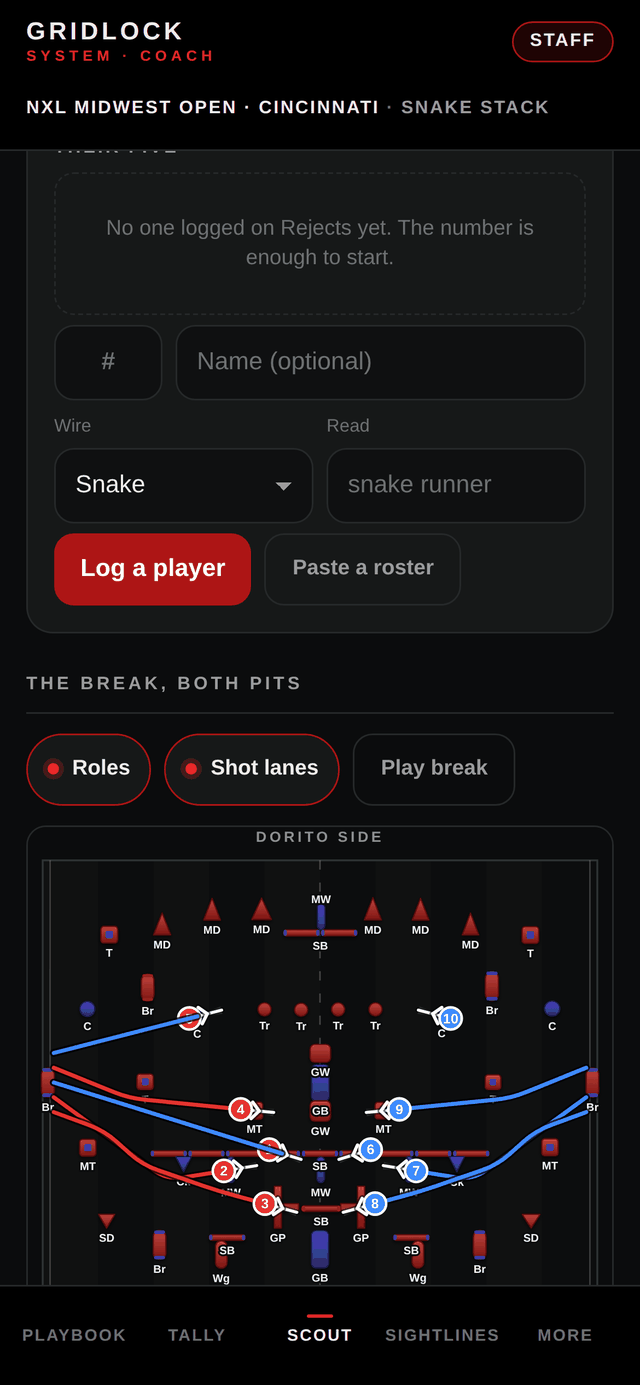
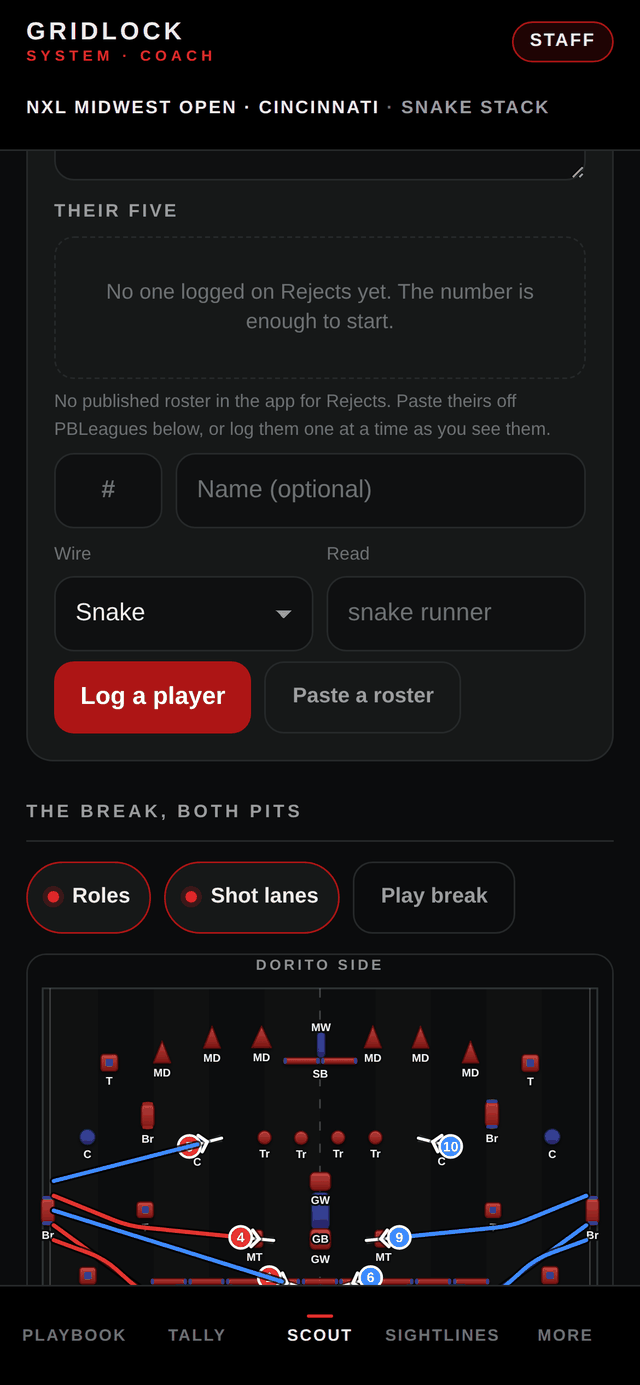
Seed the pro rosters that could actually be read, and no others
The ask was every pro roster. One is in: San Diego Dynasty, five men,
three with numbers, read off the NXL team page and the team's 2026 roster
write-up. The other ten are not, because this machine cannot reach the
pages that carry them — pbleagues, nxlpaintball and every other paintball
site are refused by the network — and a hundred players' names and
numbers written down from memory would be worse than an empty list. A
team with no published roster says so on its card and points at the paste
box instead.

A published name is stored flagged as published and the card counts them
separately, so a name nobody here has watched is never presented as
something a coach saw. Adding them is one tap, never automatic, never
twice, and every one is editable and scoreable afterwards like any other.

Also: a pro team carries no points, and the pit card was rendering that
as "US undefined pts". A team nobody has scored now reads as a dash.

325 function checks, 61 device checks across 14 devices, 58/58 bunkers at
0.0000 ft, load test within budget.

Claude-Session: https://claude.ai/code/session_019NY29crEcm2oYkRmb2ARNX

diff --git a/web/index.html b/web/index.html
@@ -2057,6 +2057,33 @@ window.setScoutThreat = (side, i, n) => {
   editProfile(side, {players: pitOf(side).players.map((p, k) => k === i ? {...p, threat:n} : p)});
   render();
 };
+// ---- rosters the league published ----
+// Not scouting. These are names off the league's own pages, and they go in
+// flagged as published so a name nobody here has watched is never mistaken for
+// something a coach saw. A team is in this list only if its roster was actually
+// read somewhere; the rest stay empty rather than being filled in from memory.
+const PRO_ROSTERS = {
+  "San Diego Dynasty": {
+    read: "September 2026",
+    src: "the NXL team page and the team's 2026 roster write-up",
+    men: [{num:"7", name:"Alex Fraige"}, {num:"18", name:"Ryan Greenspan"},
+          {num:"32", name:"Yosh Rau"}, {num:"", name:"Eliot Weaver"},
+          {num:"", name:"Archie Barnes Jr"}],
+  },
+};
+function published(name){ return PRO_ROSTERS[name] || null; }
+window.addPublished = side => {
+  const name = pitOf(side).name, r = published(name);
+  if(!r) return;
+  const have = pitOf(side).players;
+  const add = r.men
+    .filter(p => !have.some(h => (p.num && h.num === p.num) ||
+                                 (h.name || "").toLowerCase() === p.name.toLowerCase()))
+    .map(p => ({num: p.num, name: p.name, wire: "Flex", note: "", threat: 3, from: "published"}));
+  editProfile(side, {players: [...have, ...add]});
+  render();
+};
+
 // ---- a roster read off a screenshot ----
 // Nothing is fetched: there is no network in this app and there is not going to
 // be one. The phone already reads text out of a picture — press and hold a
@@ -2556,7 +2583,7 @@ function pit(side,T,label){
     <div class="pit__side">${label}</div>
     <div>
       <div class="pit__name">${esc(T.name)}</div>
-      <div class="pit__pts">US ${T.pts} pts</div>
+      <div class="pit__pts">${T.pts === undefined ? "US — · not scored yet" : "US "+T.pts+" pts"}</div>
     </div>
     <select onchange="setPitTeam('${side}',this.value)">
       ${teamsHere().map(t=>`<option ${t.name===T.name?"selected":""}>${esc(t.name)}</option>`).join("")}
@@ -2569,7 +2596,8 @@ function pit(side,T,label){
       <textarea onchange="setPitNotes('${side}',this.value)" placeholder="Break tendencies, weaknesses, how they trade…">${esc(T.notes)}</textarea>
     </div>
 
-    <div class="fld"><label>Their five${men.length?" · "+men.length+" logged":""}</label>
+    <div class="fld"><label>Their five${men.length?" · "+men.length+" logged":""}${
+        men.filter(m=>m.from==="published").length?" · "+men.filter(m=>m.from==="published").length+" off a published roster":""}</label>
       ${men.length?`<div class="rost">${men.map((m,i)=>`<div class="rost__p">
           <input class="rost__num" value="${esc(m.num)}" placeholder="#"
             onchange="editScoutPlayer('${side}',${i},'num',this.value)"/>
@@ -2589,6 +2617,14 @@ function pit(side,T,label){
             onchange="editScoutPlayer('${side}',${i},'note',this.value)"/>
         </div>`).join("")}</div>`
         :`<div class="empty">No one logged on ${esc(T.name)} yet. The number is enough to start.</div>`}
+      ${!men.length && published(T.name)
+        ? `<button class="btn btn--block" onclick="addPublished('${side}')">Add their published ${published(T.name).men.length}</button>
+           <p class="note">Names only, read from ${esc(published(T.name).src)} in ${esc(published(T.name).read)}.
+             Check them against the league before you lean on them — rosters move all season.</p>`
+        : !men.length
+        ? `<p class="note">No published roster in the app for ${esc(T.name)}. Paste theirs off PBLeagues below,
+             or log them one at a time as you see them.</p>`
+        : ""}
       <div class="rost__add">
         <input id="sp-num-${side}" class="rost__num" placeholder="#" inputmode="numeric"/>
         <input id="sp-name-${side}" placeholder="Name (optional)"/>

diff --git a/test/functions.js b/test/functions.js
@@ -844,6 +844,53 @@ const ROSTER = [
   check("the migrated slot keeps only the team name", await ev(() =>
     Object.keys(S.left).join() === "name"));
 
+  /* ------------------------------------------ rosters the league published */
+  G("Published rosters");
+  await ev(() => window.set({ tab: "scout", scoutTab: "matchup", scout: {},
+    division: "pro", left: { name: "Los Angeles Ironmen" }, right: { name: "San Diego Dynasty" } }));
+  // The pro board carries names only, so a pit can hold a team with no points.
+  check("a team nobody has scored reads as a dash, never as undefined", await ev(() =>
+    pitOf("left").pts === undefined) &&
+    /not scored yet/.test(await page.locator(".pit--l").innerText()) &&
+    !/undefined/i.test(await page.locator(".pit--l").innerText()));
+  check("a published roster is offered only where one was actually read", await ev(() =>
+    !!published("San Diego Dynasty") && !published("Los Angeles Ironmen")));
+  check("every published roster says where it came from and when", await ev(() =>
+    Object.values(PRO_ROSTERS).every(r => r.src && r.read && r.men.length)));
+  check("no roster was invented for a team nobody read", await ev(() =>
+    teamsHere().filter(t => published(t.name)).length === Object.keys(PRO_ROSTERS).length));
+  check("a team with no published roster says so plainly, and offers the paste",
+    /No published roster in the app/.test(await page.locator(".pit--l").innerText()));
+  check("adding it logs the men against the team", await ev(() => {
+    window.addPublished("right");
+    const men = pitOf("right").players;
+    return men.length === 5 && men[0].num === "7" && men[0].name === "Alex Fraige";
+  }));
+  check("a published name is flagged as published, never as something you saw", await ev(() =>
+    pitOf("right").players.every(m => m.from === "published")));
+  check("the card says how many came off a roster rather than off film",
+    /off a published roster/i.test(await page.locator(".pit--r").innerText()));
+  check("a published man carries no threat read, just the seed", await ev(() =>
+    pitOf("right").players.every(m => m.threat === 3 && m.note === "" && m.wire === "Flex")));
+  check("adding it twice does not double the roster", await ev(() => {
+    window.addPublished("right");
+    return pitOf("right").players.length === 5;
+  }));
+  check("a published man is editable and scoreable like any other", await ev(() => {
+    window.setScoutThreat("right", 0, 5);
+    window.editScoutPlayer("right", 0, "wire", "Snake");
+    const m = pitOf("right").players[0];
+    return m.threat === 5 && m.wire === "Snake";
+  }));
+  check("the offer is gone once the five are logged",
+    !/Add their published/.test(await page.locator(".pit--r").innerText()));
+  check("a published roster belongs to the team, not the pit", await ev(() => {
+    window.loadPit("Houston Heat");
+    const clean = pitOf("right").players.length === 0;
+    window.loadPit("San Diego Dynasty");
+    return clean && pitOf("right").players.length === 5;
+  }));
+
   /* -------------------------------- a roster read off the phone's own OCR */
   // A screenshot never reaches this app. The phone reads the picture, the coach
   // pastes what it read, and this has to survive how ragged that text is.

diff --git a/README.md b/README.md
@@ -139,7 +139,7 @@ Four suites, all driving the real app in a real browser:
 
 | Command | What it proves |
 |---|---|
-| `npm test` | 312 assertions across every interactive function — auth, gating, all five tabs, all eleven More destinations, Scout's four sub-tabs, the 8-way pad, tally, movement, assess, classes, league, persistence, layout integrity, break routing, the roster editor, the walk, code words, lineups, path editing, per-team scouting, the matchup panel, cause of an out, the history it counts, saving and loading a copy, the opponent's breakouts, the field layers, the replay, the QR encoder, the first run, the divisions, a roster read off a screenshot (against text a real OCR engine returned from a real screenshot), holding your place on screen, and the house rules. |
+| `npm test` | 325 assertions across every interactive function — auth, gating, all five tabs, all eleven More destinations, Scout's four sub-tabs, the 8-way pad, tally, movement, assess, classes, league, persistence, layout integrity, break routing, the roster editor, the walk, code words, lineups, path editing, per-team scouting, the matchup panel, cause of an out, the history it counts, saving and loading a copy, the opponent's breakouts, the field layers, the replay, the QR encoder, the first run, the divisions, the rosters the league published, a roster read off a screenshot (against text a real OCR engine returned from a real screenshot), holding your place on screen, and the house rules. |
 | `npm run test:devices` | Every iPhone since the SE 2, the iPad line, and two Android references — 14 devices x 5 tabs. Checks for sideways scroll, a tab bar off the viewport, any tap target under 44 px, and running text past 80 characters a line. Safe-area padding is asserted from the CSS, since Chromium has no notch to emulate. |
 | `npm run verify:bunkers` | Reads the drawn SVG back out of the browser and compares every footprint against the digitized map, by bunker id. Currently 58/58 at 0.00 ft. |
 | `npm run loadtest` | A full season seeded on a 4x-throttled CPU. See `docs/SCALING.md`. |
